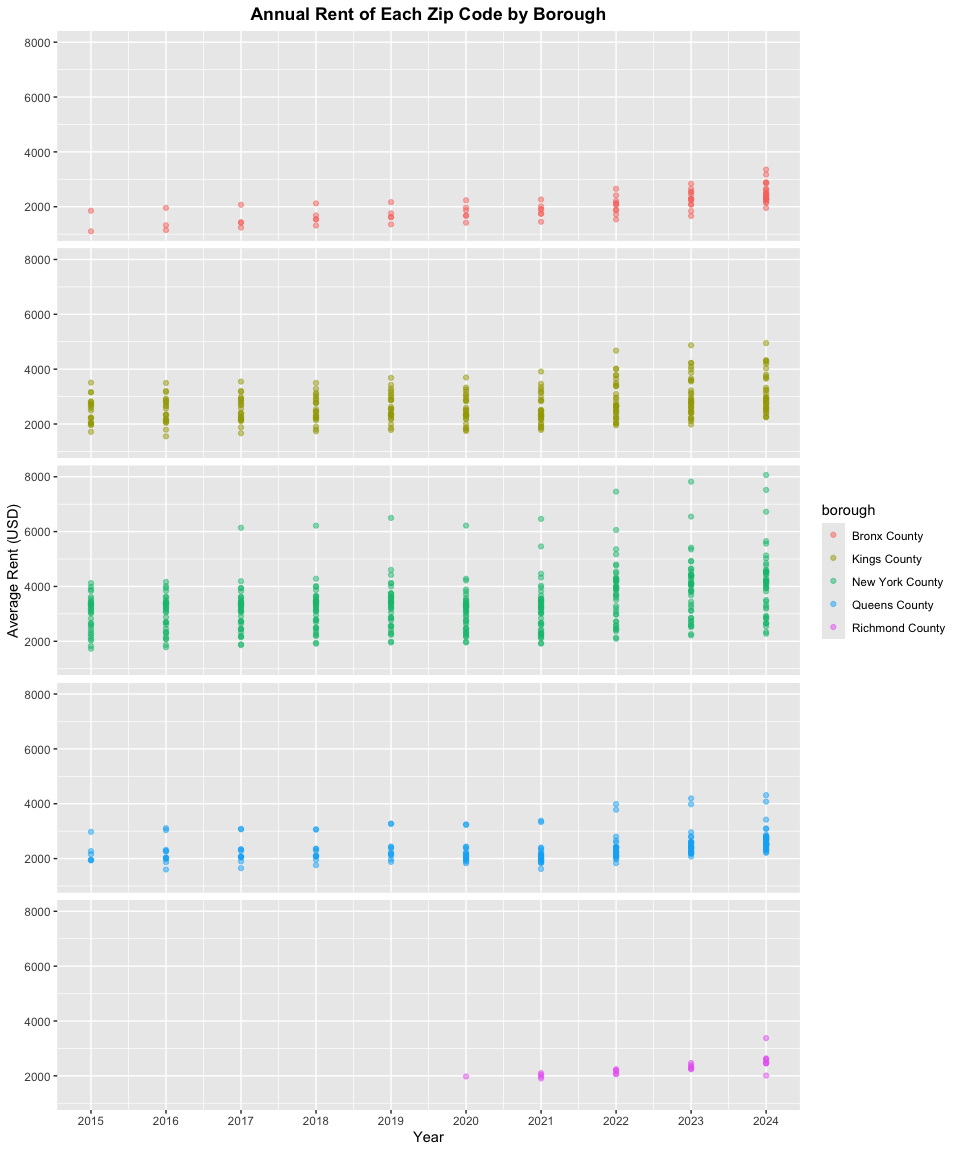
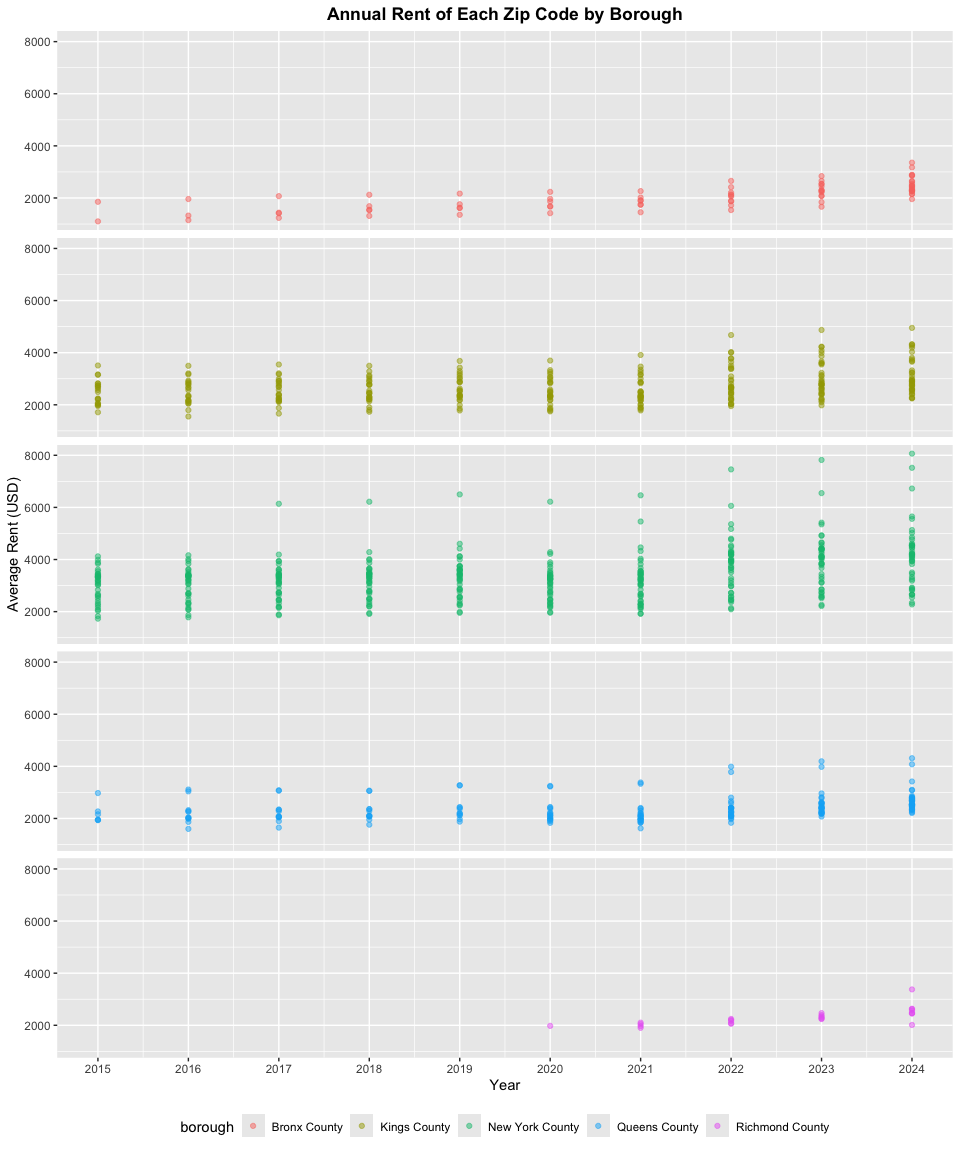
Problem 2 - Commented on the 2023 month_zip rent plot and combined and exported the two plots into results folder.

Changed region(s): [[0.0, 0.0, 1.0, 1.0], [0.25, 0.0, 0.7188, 0.0312], [0.0312, 0.0625, 0.0625, 0.0938]]

diff --git a/p8105_hw3_sy3352.md b/p8105_hw3_sy3352.md
@@ -235,21 +235,22 @@ zip_year_plot =
     y = "Average Rent (USD)"
   ) +
   theme(strip.text = element_blank(),
-        plot.title = element_text(face = "bold", hjust = 0.5))
+        plot.title = element_text(face = "bold", hjust = 0.5),
+        legend.position = "bottom")
 zip_year_plot
 ```
 
 ![](p8105_hw3_sy3352_files/figure-gfm/zip_year_plot-1.png)<!-- --> The
 plot shows the annual rent price by zip code in NYC from 2015 to 2024.
 The 5 boroughs in the plot are represented by 5 different colors as
-shown in the legend at the right side. Each point in the plot represents
-a zip code’s rent in a certain year. From the plot we can see overall
-all 5 boroughs in NYC experience a steady growth (except for 2020-2021
-due to covid-19 impact) in rent and also a more and more spread-out
-price range. Richmond County has no data available during 2015 to 2019,
-thus the points only starts from 2020. New York County has not only
-overall highest rent but also the widest range of rents, indicating the
-most diversity in housing rental options.
+shown in the legend at the bottom. Each point in the plot represents a
+zip code’s rent in a certain year. From the plot we can see overall all
+5 boroughs in NYC experience a steady growth (except for 2020-2021 due
+to covid-19 impact) in rent and also a more and more spread-out price
+range. Richmond County has no data available during 2015 to 2019, thus
+the points only starts from 2020. New York County has not only overall
+highest rent but also the widest range of rents, indicating the most
+diversity in housing rental options.
 
 ``` r
 zip_mon_2023 = rent_neigh_joint_df |> 
@@ -271,10 +272,31 @@ zip_mon_2023_plot =
     y = "Rent (USD)"
   ) +
   theme(strip.text = element_blank(),
-        plot.title = element_text(face = "bold", hjust = 0.5))
+        plot.title = element_text(face = "bold", hjust = 0.5),
+        legend.position = "bottom")
 zip_mon_2023_plot
 ```
 
 ![](p8105_hw3_sy3352_files/figure-gfm/zip_mon_2023_plot-1.png)<!-- -->
+
+The plot shows the rent price of each zip code in NYC by month of 2023.
+The 5 boroughs in the plot are represented by 5 different colors as
+shown in the legend at the bottom. Each violin in the plot represents
+the allocation of rental price of zip codes in each month. From the plot
+we can see overall all 5 boroughs in NYC has a stable retal price
+throughout the year, with a very slight steady growth towards the end of
+the year. New York County has not only overall highest rent but also the
+widest range of rents, indicating the most diversity in housing rental
+options. Bronx and Richmond County has relatively low rent but also the
+most tightly clustered rent distribution, indicating that housing
+options in these boroughs are relatively uniformed.
+
+``` r
+ggsave(filename = "results/zillow_rent_combined_plot.png",
+       plot = zip_year_plot / zip_mon_2023_plot,
+       width = 10,
+       height = 20,
+       dpi = 600)
+```
 
 # Problem 3
